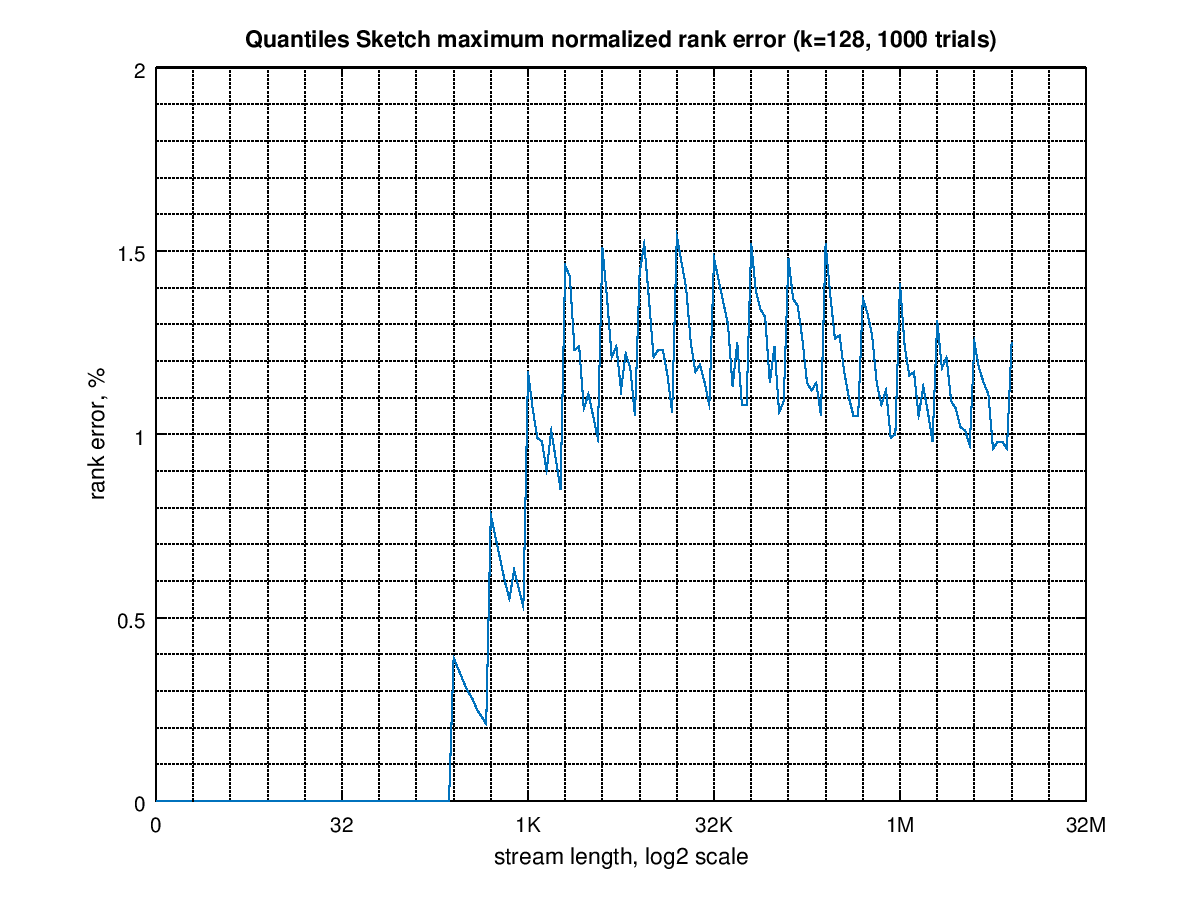
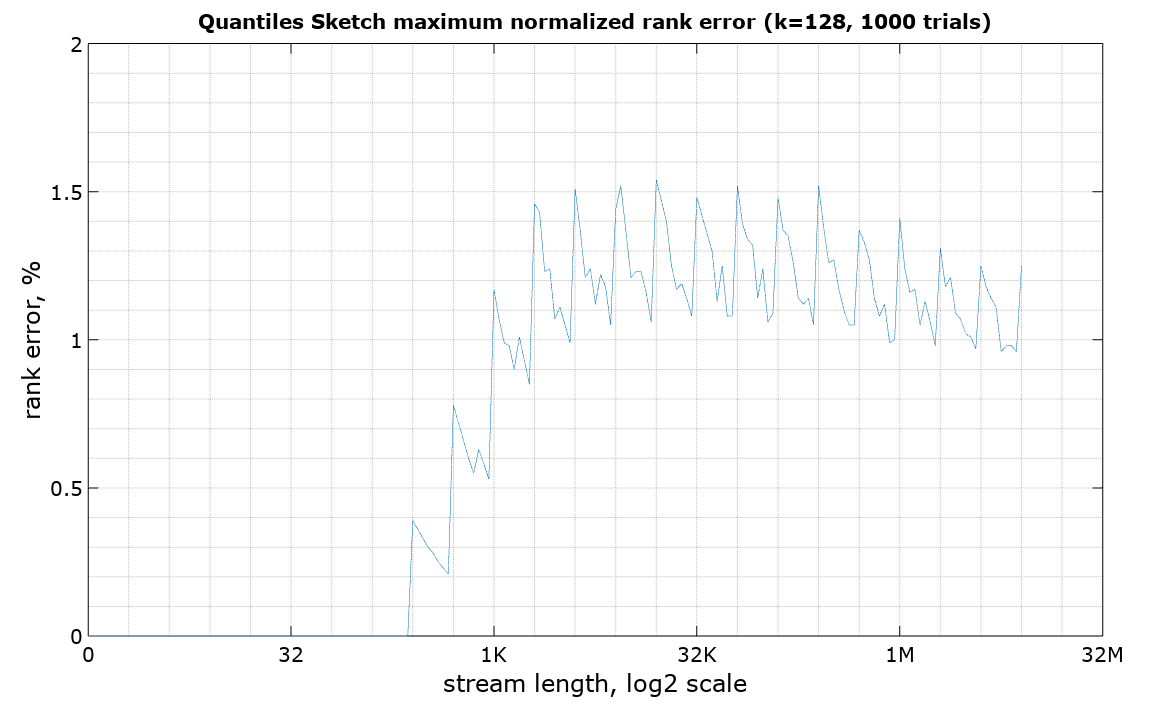
better plot

diff --git a/docs/Quantiles/QuantilesAccuracy.md b/docs/Quantiles/QuantilesAccuracy.md
@@ -82,4 +82,4 @@ All of these plots were generated from one set of values, and is not a test of t
 
 The following plot illustrates the maximum observed normalized rank error of DoublesSketch with k=128 in 1000 trials at each stream length. The code to reproduce this measurement is available in the DataSketches/characterization repository.
 
-<img class="doc-img-half" src="{{site.docs_img_dir}}/quantiles/qds-7-compact-accuracy-1k-20180110.png" alt="QuantilesRankError" />
+<img class="doc-img-full" src="{{site.docs_img_dir}}/quantiles/qds-7-compact-accuracy-1k-20180110.png" alt="QuantilesRankError" />
